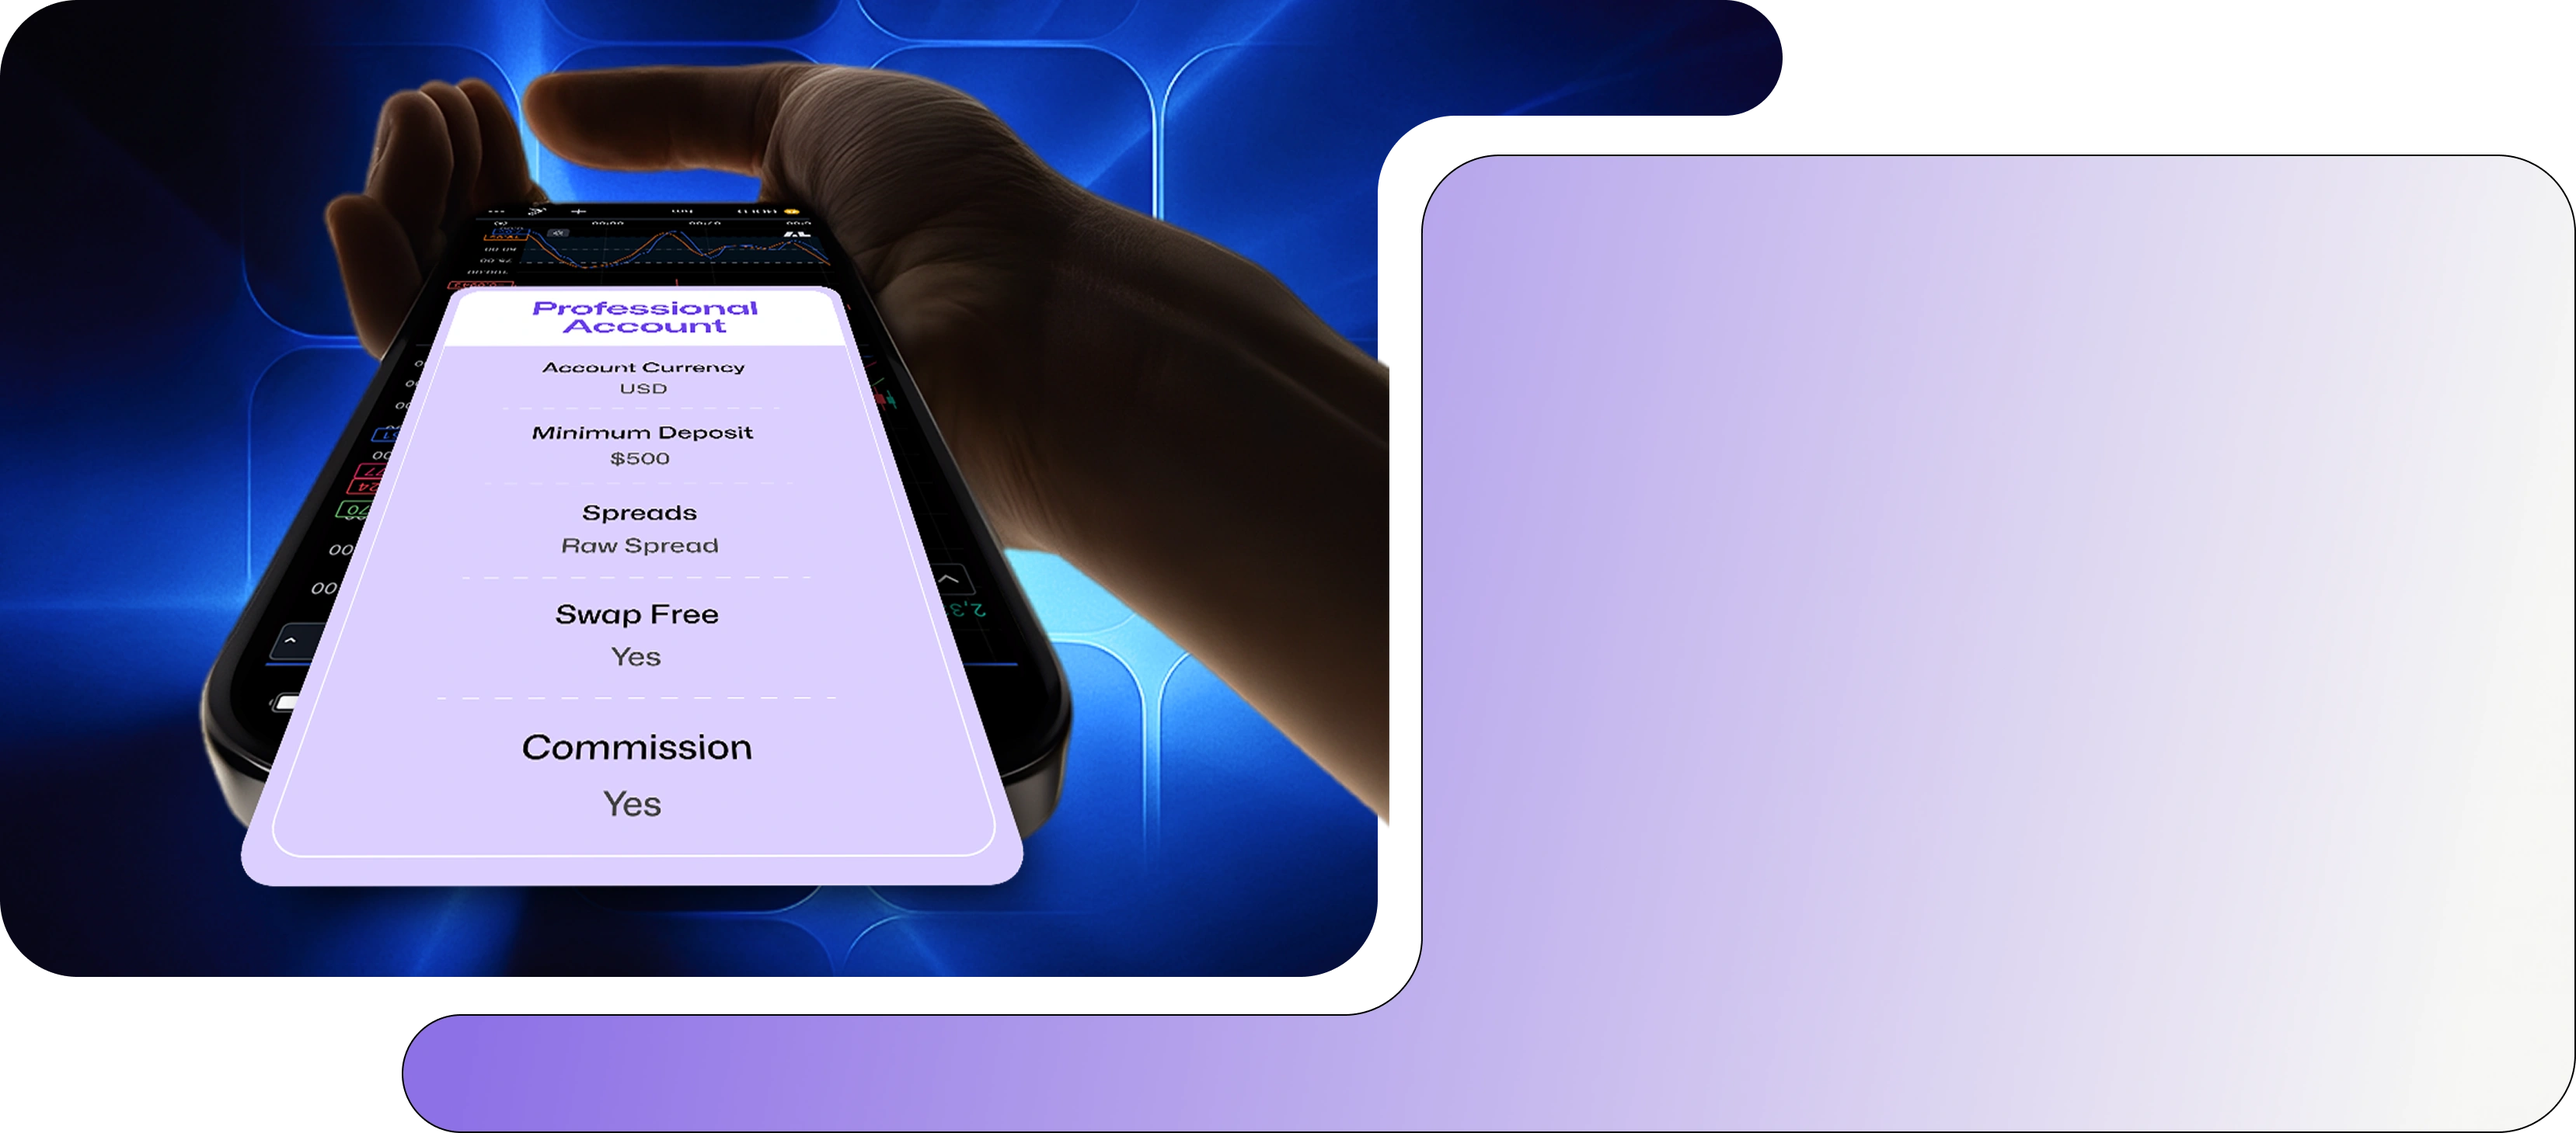
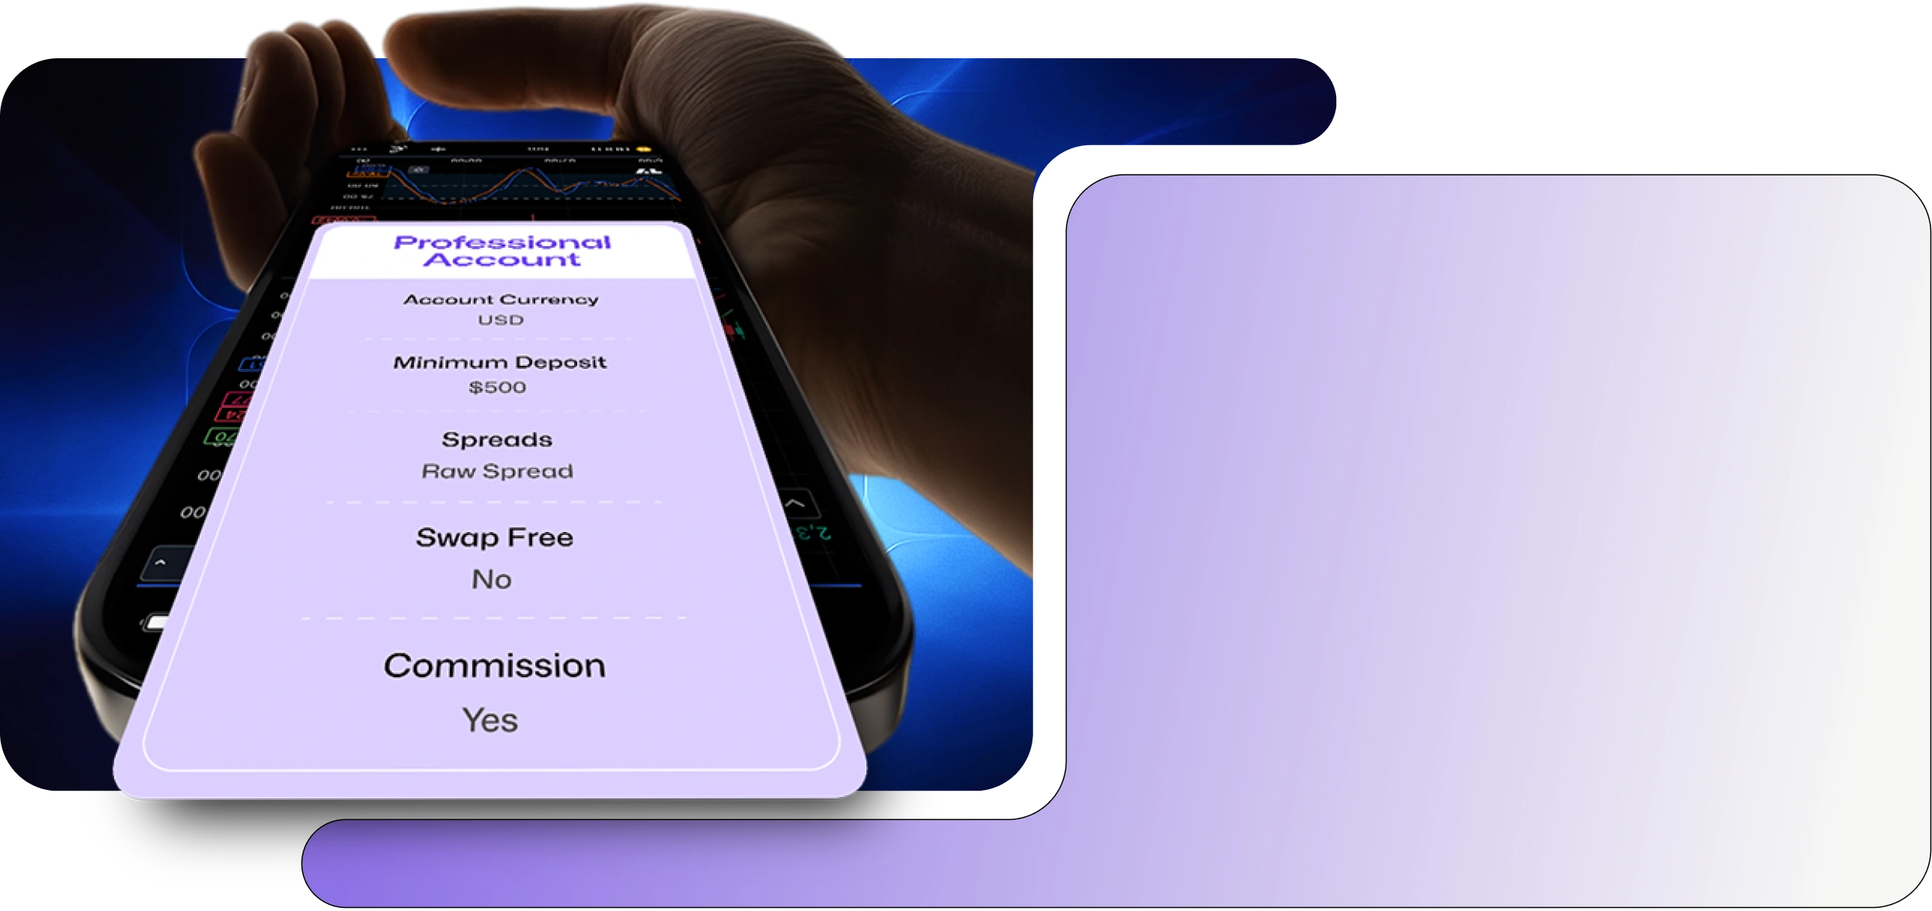
issue fix

Changed region(s): [[0.0, 0.0, 0.9598, 0.9514], [0.9908, 0.1535, 1.0, 0.9821], [0.1548, 0.9821, 0.9908, 1.0]]

diff --git a/src/app/professional-account/page.jsx b/src/app/professional-account/page.jsx
@@ -90,7 +90,7 @@ const page = () => {
         }
         mini_depo={"$500"}
         spreads_from={"Raw Spreads"}
-        swap_free={"Yes"}
+        swap_free={"No"}
         commission={"Yes"}
       />
       <Accountchoose

diff --git a/src/app/enc-account/page.jsx b/src/app/enc-account/page.jsx
@@ -86,7 +86,7 @@ const page = () => {
         }
         mini_depo={"$200"}
         spreads_from={"Raw Spreads"}
-        swap_free={"Yes"}
+        swap_free={"No"}
         commission={"No"}
       />
       <Accountchoose

diff --git a/src/app/classic-account/page.jsx b/src/app/classic-account/page.jsx
@@ -88,7 +88,7 @@ const page = () => {
         }
         mini_depo={"$100"}
         spreads_from={"0.8 pips"}
-        swap_free={"Yes"}
+        swap_free={"No"}
         commission={"No"}
       />
       <Accountchoose

diff --git a/src/app/standard-account/page.jsx b/src/app/standard-account/page.jsx
@@ -86,7 +86,7 @@ const page = () => {
         }
         mini_depo={"$25"}
         spreads_from={"1.2 pips"}
-        swap_free={"Yes"}
+        swap_free={"No"}
         commission={"No"}
       />
       <Accountchoose
